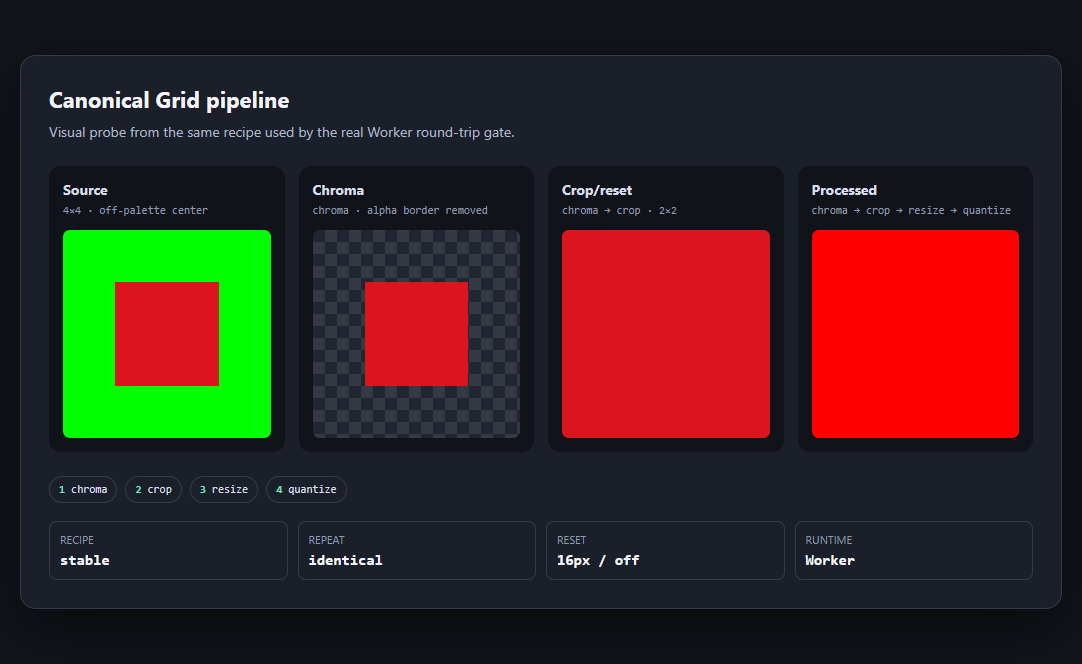
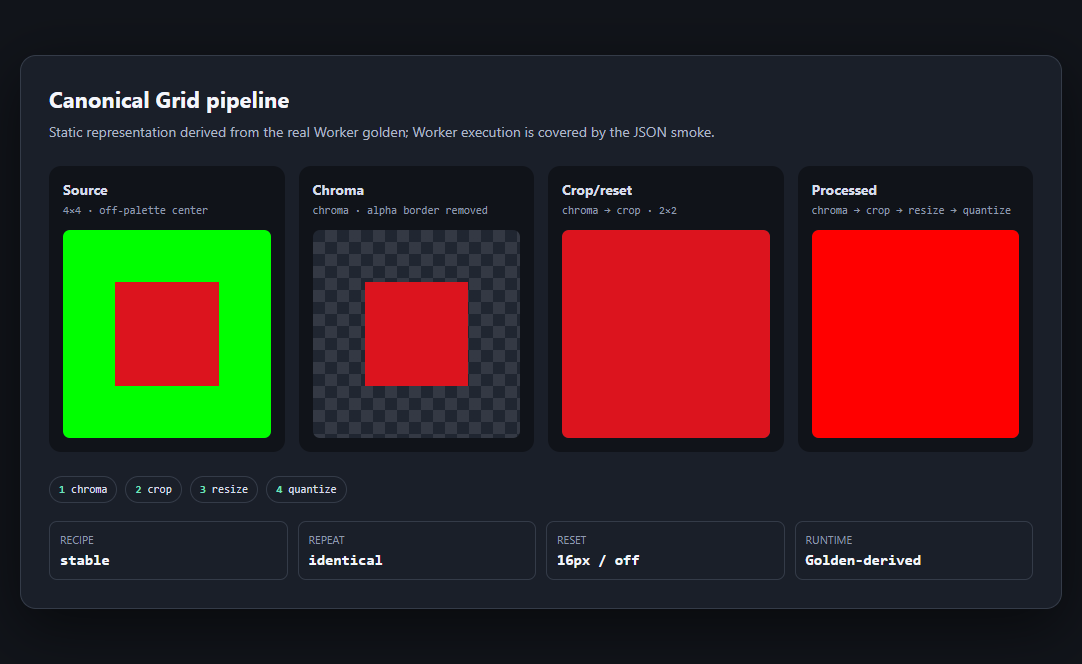
test: close grid pipeline visual evidence

Changed region(s): [[0.0305, 0.1807, 0.671, 0.2108], [0.7625, 0.8434, 0.854, 0.8735]]

diff --git a/scripts/grid-processing-pipeline-smoke.ts b/scripts/grid-processing-pipeline-smoke.ts
@@ -112,6 +112,10 @@ const chromaRecipe = {
   ...baselineRecipe,
   chroma: hydrated.recipe.chroma,
 };
+const resizeOnlyRecipe = {
+  ...hydrated.recipe,
+  pixel: { enabled: true, size: 4, quantize: false, colors: 2 },
+};
 
 const baselineRequest = requestFor("grid-pipeline-baseline", baselineRecipe);
 const baselineResult = await createGridProcessingClient().process({ request: baselineRequest });
@@ -126,6 +130,9 @@ const repeatResult = await createGridProcessingClient().process({
 const cropResult = await createGridProcessingClient().process({
   request: requestFor("grid-pipeline-crop", resetHydrated.recipe),
 });
+const resizeOnlyResult = await createGridProcessingClient().process({
+  request: requestFor("grid-pipeline-resize-only", resizeOnlyRecipe),
+});
 const resetRequest = requestFor("grid-pipeline-reset", resetHydrated.recipe);
 const resetResult = await createGridProcessingClient().process({ request: resetRequest });
 
@@ -139,6 +146,8 @@ const baselinePixels = [...new Uint8ClampedArray(baseline.surface.pixels)];
 const chromaPixels = [...new Uint8ClampedArray(chroma.surface.pixels)];
 const cropPixels = [...new Uint8ClampedArray(crop.surface.pixels)];
 const resetPixels = [...new Uint8ClampedArray(reset.surface.pixels)];
+const resizeOnly = resizeOnlyResult.outputs[0]!;
+const resizeOnlyPixels = [...new Uint8ClampedArray(resizeOnly.surface.pixels)];
 const firstPixels = [...new Uint8ClampedArray(first.surface.pixels)];
 const repeatedPixels = [...new Uint8ClampedArray(repeated.surface.pixels)];
 const evidence = {
@@ -165,12 +174,17 @@ const evidence = {
   stageEffects: {
     chromaChangedPixels: JSON.stringify(chromaPixels) !== JSON.stringify(baselinePixels),
     cropChangedBounds: JSON.stringify(chroma.contentBounds) !== JSON.stringify(crop.contentBounds),
-    quantizeChangedPixels: JSON.stringify(firstPixels) !== JSON.stringify(cropPixels),
+    quantizeChangedPixels: JSON.stringify(firstPixels) !== JSON.stringify(resizeOnlyPixels),
   },
   repeat: {
     operations: repeated.operations,
     pixelsIdentical: JSON.stringify(repeatedPixels) === JSON.stringify(firstPixels),
     operationsIdentical: JSON.stringify(repeated.operations) === JSON.stringify(first.operations),
+  },
+  resizeOnly: {
+    dimensions: [resizeOnly.surface.width, resizeOnly.surface.height],
+    operations: resizeOnly.operations,
+    pixels: resizeOnlyPixels,
   },
   reset: {
     enabled: resetHydrated.recipe.pixel.enabled,

diff --git a/tests/browser/gridPipelineVisualHarness.html b/tests/browser/gridPipelineVisualHarness.html
@@ -29,7 +29,7 @@
   <body>
     <main aria-labelledby="title">
       <h1 id="title">Canonical Grid pipeline</h1>
-      <p>Visual probe from the same recipe used by the real Worker round-trip gate.</p>
+      <p>Static representation derived from the real Worker golden; Worker execution is covered by the JSON smoke.</p>
       <section class="canvases" aria-label="Pipeline stages">
         <figure><figcaption>Source<span>4×4 · off-palette center</span></figcaption><canvas id="source" width="4" height="4"></canvas></figure>
         <figure><figcaption>Chroma<span>chroma · alpha border removed</span></figcaption><canvas id="chroma" width="4" height="4"></canvas></figure>
@@ -41,7 +41,7 @@
       </div>
       <dl>
         <div><dt>Recipe</dt><dd id="recipe">stable</dd></div><div><dt>Repeat</dt><dd id="repeat">identical</dd></div>
-        <div><dt>Reset</dt><dd id="reset">16px / auto</dd></div><div><dt>Runtime</dt><dd id="runtime">Worker</dd></div>
+        <div><dt>Reset</dt><dd id="reset">16px / auto</dd></div><div><dt>Runtime</dt><dd id="runtime">Golden-derived</dd></div>
       </dl>
     </main>
     <script type="module" src="./gridPipelineVisualJourney.ts"></script>

diff --git a/docs/integration/IMPLEMENTATION_REVIEW.md b/docs/integration/IMPLEMENTATION_REVIEW.md
@@ -1837,8 +1837,9 @@ para ejecutar el journey completo con undo/save/export.
   artifact `artifacts/quality/GRID/2026-07-16/g5-05-pipeline-roundtrip.json`.
   El lote enfocado suma `36/36` tests, typecheck, oxlint y diff-check verdes.
   El browser probe `tests/browser/gridPipelineVisualBrowserRunner.mjs` captura e
-  inspecciona `g5-05-pipeline-visual.png` con cero errores y muestra source,
-  chroma, crop/reset y output final en el mismo orden visual.
+  inspecciona `g5-05-pipeline-visual.png` con cero errores como representación
+  estática derivada del golden real; la ejecución Worker real queda probada por
+  el smoke JSON y no se presenta la captura como una segunda ejecución Worker.
 - **Límite honesto:** el smoke cubre la receta/Worker y el reset canónico; la
   presentación de resultados y exportación siguen G6/G7.
 

diff --git a/docs/integration/tasks/GRID.md b/docs/integration/tasks/GRID.md
@@ -38,7 +38,7 @@ Superficie propietaria: `features/slice/**`, adapters `core/processing/**`, resu
 | G5-01 | J | G3-04,G4-05 | G5.1-G5.3 | Pixel resize/snapping stage | Pixel/hash UT | done |
 | G5-02 | J | G5-01 | G5.4-G5.6 | Palette quantization count + auto/fixed modes | Determinism/membership UT | done |
 | G5-03 | E | G5-02 | G1.7,G5.7-G5.8 | Palette extraction/presets/control UI | BR+A11Y + REV | done |
-| G5-04 | J | G5-02 | G5.1-G5.8 | Large-image and palette performance budget | PERF artifact | active |
+| G5-04 | J | G5-02 | G5.1-G5.8 | Large-image and palette performance budget | PERF artifact | done |
 | G5-05 | J | G5-03,G5-04 | G5.1-G5.8 | Pipeline ordering, reset and recipe round-trip | RT+VIS+REV | active |
 
 ## Results, irregular parity y hardening